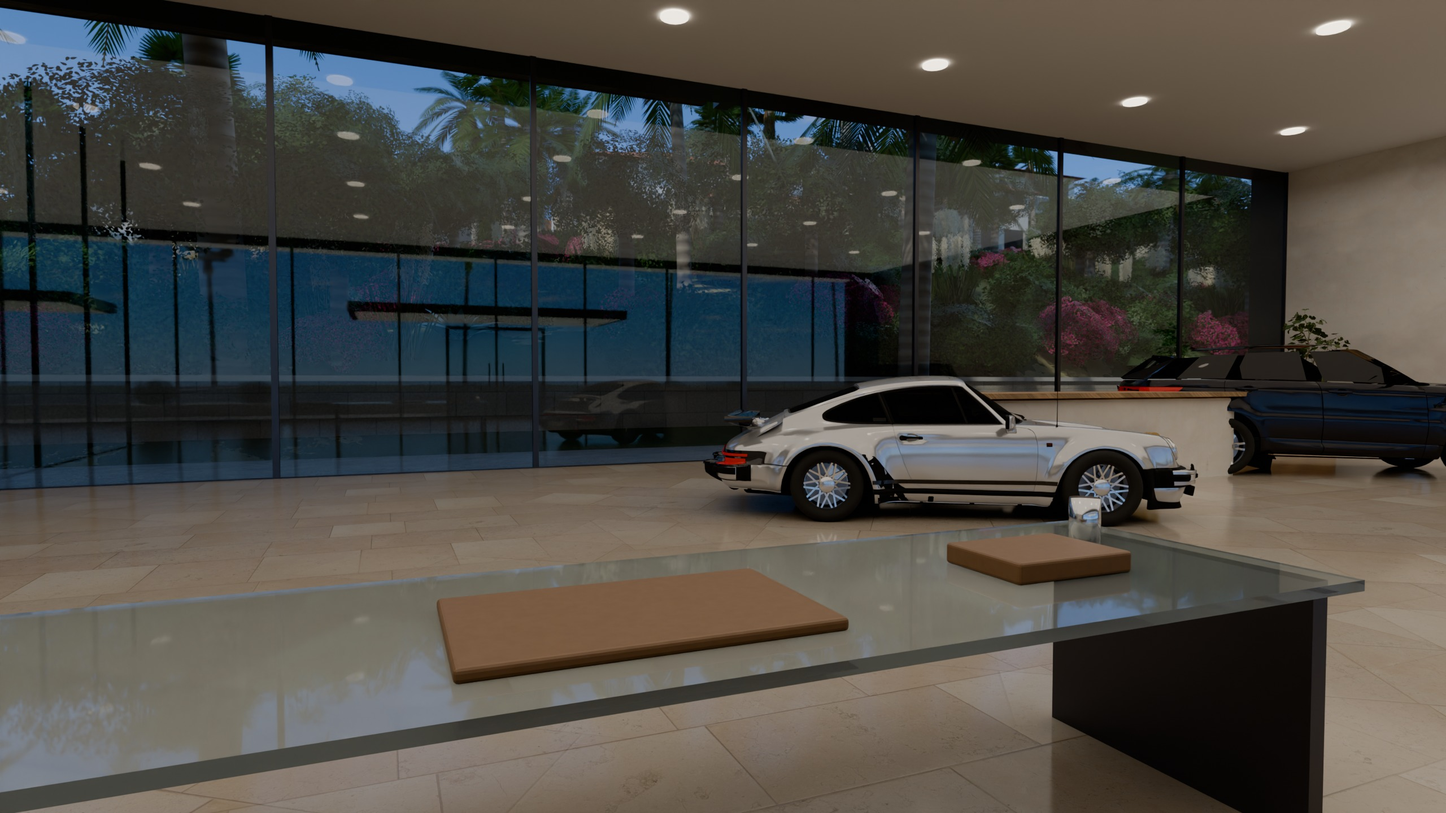
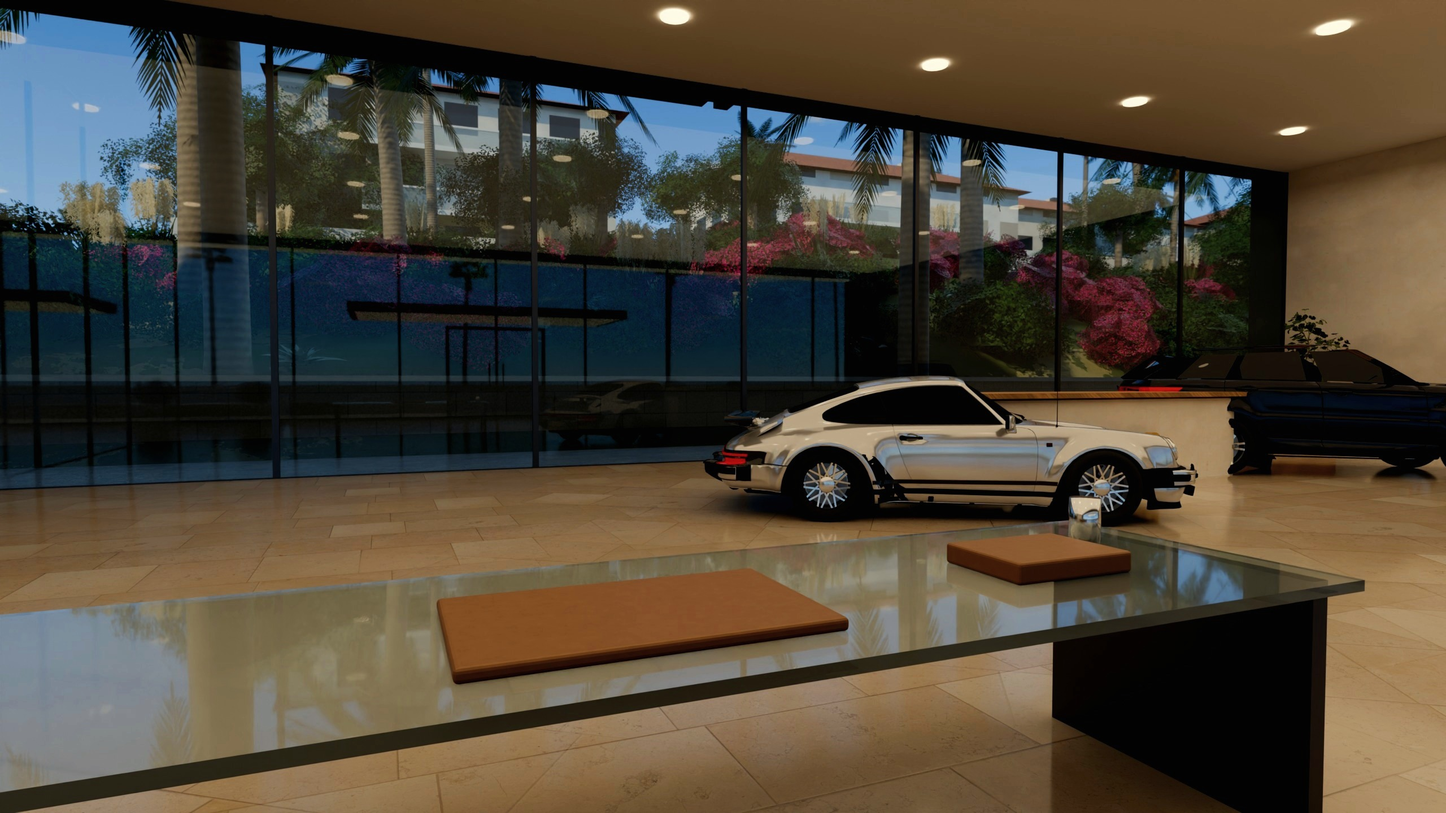
Backgrounds re-rendered with the palms pass and warm California grade; milder grade for interiors
Claude-Session: https://claude.ai/code/session_01EWcezuJp7dQ3D3f17RS8pM

diff --git a/tools/grade.py b/tools/grade.py
@@ -1,5 +1,6 @@
 """python3 tools/grade.py <img.jpg>: the warm Southern California day grade for daytime backgrounds, in place.
 Warmer white balance, a little lift in the shadows' warmth and richer colour (saturation +40%), a deeper black point and a gentle contrast curve."""
+import os
 import sys
 
 import numpy as np
@@ -15,4 +16,8 @@ a = np.clip((np.clip(a, 0, 1) - 0.06) / 0.94, 0, 1)                # clear the h
 a = a * a * (3 - 2 * a) * 0.35 + a * 0.65                            # a gentle S-curve for contrast
 im = Image.fromarray((a * 255 + 0.5).astype(np.uint8))
 im = ImageEnhance.Color(im).enhance(1.4)
+if "lot" not in os.path.basename(p):
+    # interiors take a milder version: the warm sun through the glass is already golden, so cool and calm it back
+    a = np.asarray(im, dtype=np.float32) / 255.0 * np.array([0.97, 1.0, 1.08], dtype=np.float32)
+    im = ImageEnhance.Color(Image.fromarray((np.clip(a * 1.06 + 0.01, 0, 1) * 255).astype(np.uint8))).enhance(0.82)
 im.save(p, quality=92)
